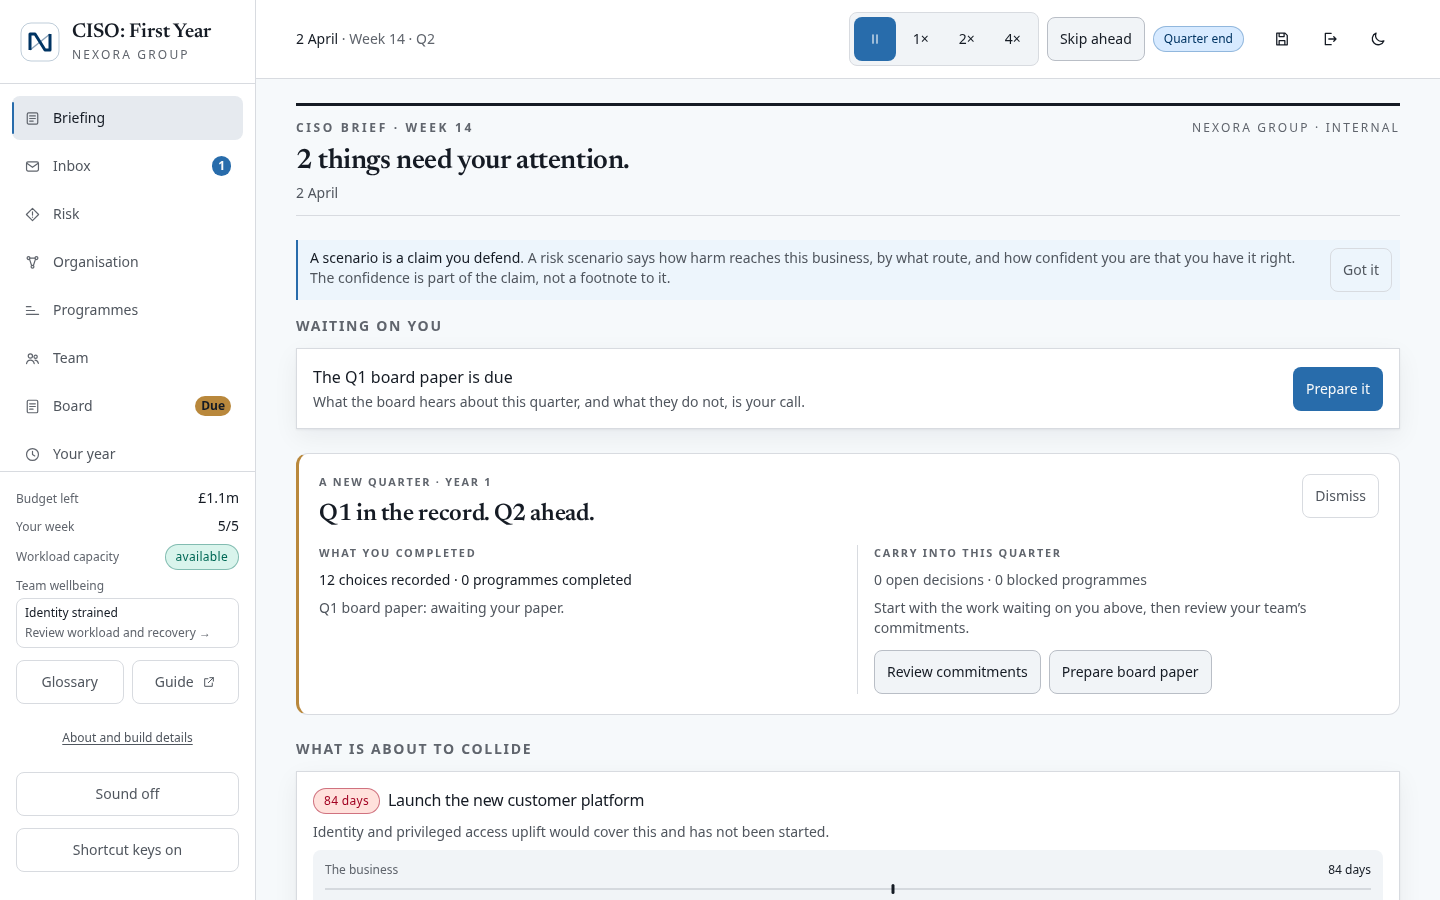
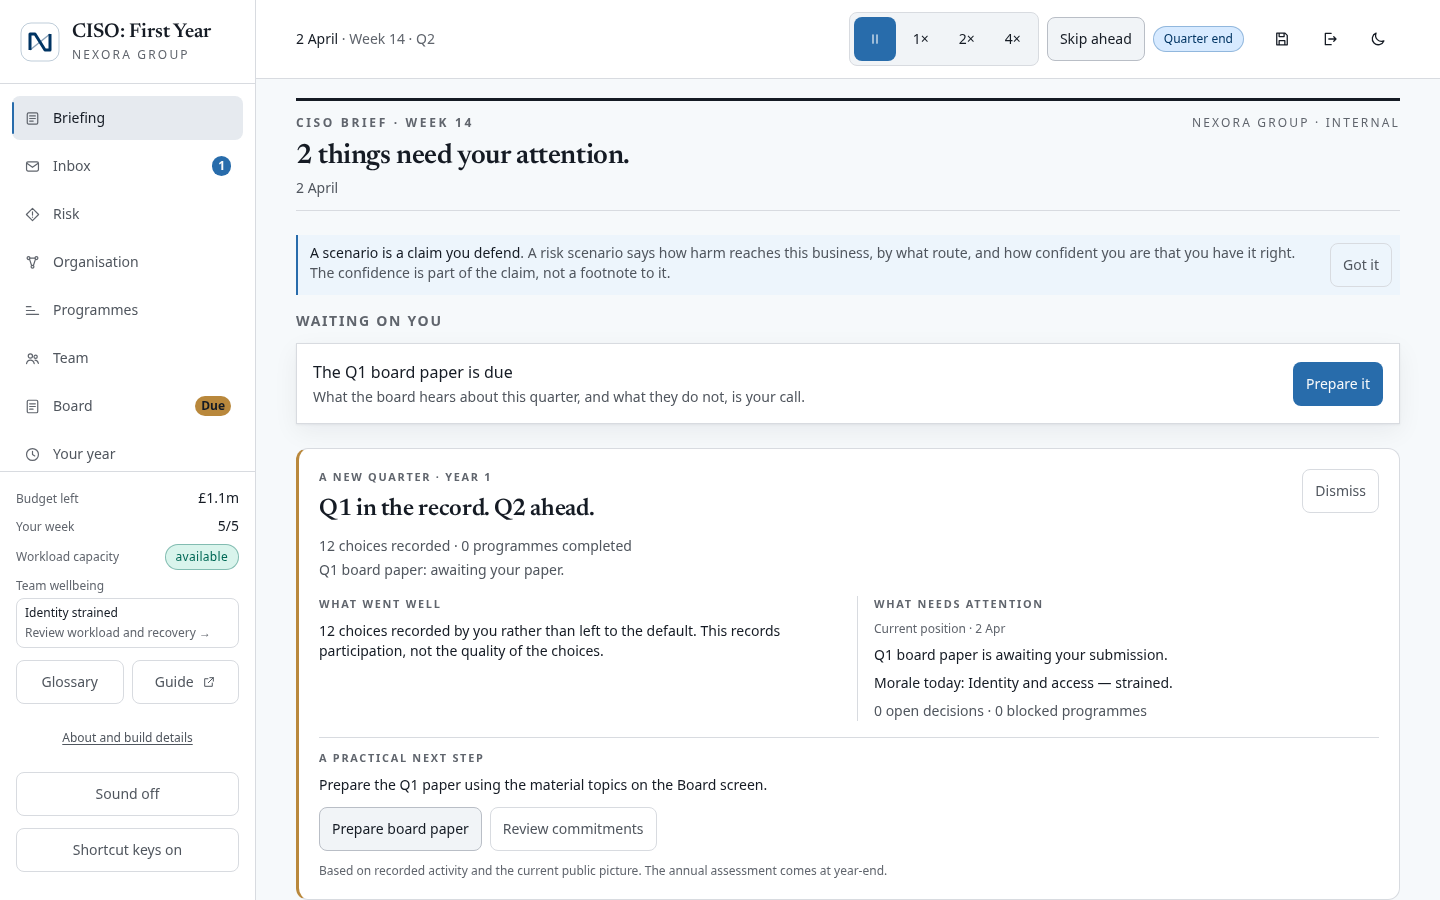
Add evidence-backed quarterly guidance and next steps

diff --git a/src/components/game/CampaignFeedbackView.tsx b/src/components/game/CampaignFeedbackView.tsx
@@ -1,9 +1,8 @@
 import { useEffect, useRef } from 'react'
-import { DAYS_PER_QUARTER } from '@/game/types'
 import { Button, Disclosure } from '@/components/ui/primitives'
 import { useCampaignIndex, useGameStore } from '@/store/game-store'
 import { money, plural, shortDate } from '@/lib/formatting/labels'
-import { openDecisions, programmeViews } from '@/store/selectors'
+import { quarterFeedback } from '@/store/quarter-feedback'
 
 export function CampaignFeedbackView({ kind }: { kind: 'decision' | 'quarter' }) {
   const state = useGameStore((store) => store.state)
@@ -57,17 +56,7 @@ export function CampaignFeedbackView({ kind }: { kind: 'decision' | 'quarter' })
 
   if (!transition) return null
   const quarter = transition.quarter - 1
-  const start = (quarter - 1) * DAYS_PER_QUARTER
-  const end = quarter * DAYS_PER_QUARTER
-  const choices = state.history.decisionsLog.filter((entry) => entry.day >= start && entry.day < end && !state.decisions.decisions[entry.decisionId]?.resolvedByDefault)
-  const completed = programmeViews(state, index).filter((programme) => {
-    const day = state.programmes.programmes[programme.id]?.completedDay
-    return day !== undefined && day >= start && day < end
-  })
-  const board = state.reviews.quarters.find((review) => review.quarter === quarter && review.completed)
-  const pending = state.reviews.pendingQuarter === quarter
-  const outstanding = openDecisions(state, index)
-  const blocked = programmeViews(state, index).filter((programme) => programme.blockers.length > 0 && programme.status !== 'proposed' && programme.status !== 'complete')
+  const { choices, completed, board, pending, outstanding, blocked, strengths, concerns, next } = quarterFeedback(state, index, quarter)
   return <section className="feedback-paper quarter-paper" aria-labelledby="quarter-recap-heading">
     <div className="flex items-start justify-between gap-3">
       <div className="min-w-0"><p className="document-kicker">A new quarter · Year {transition.year}</p>
@@ -75,17 +64,29 @@ export function CampaignFeedbackView({ kind }: { kind: 'decision' | 'quarter' })
       </div>
       <Button variant="quiet" size="sm" className="shrink-0 whitespace-nowrap" aria-label="Dismiss quarter recap" onClick={() => setUi({ quarterTransition: undefined })}>Dismiss</Button>
     </div>
+    <p className="mt-3 text-sm text-ink-muted">{plural(choices.length, 'choice')} recorded · {plural(completed.length, 'programme')} completed</p>
+    <p className="mt-1 text-sm text-ink-muted">Q{quarter} board paper: {board ? 'submitted' : pending ? 'awaiting your paper' : 'no submission recorded'}.</p>
     <div className="mt-4 grid gap-4 sm:grid-cols-2">
-      <div><h3 className="document-kicker">What you completed</h3>
-        <p className="mt-2 text-sm">{plural(choices.length, 'choice')} recorded · {plural(completed.length, 'programme')} completed</p>
-        {completed.length > 0 && <p className="mt-1 text-sm text-ink-muted">{completed.map((programme) => programme.shortName).join(', ')}</p>}
-        <p className="mt-2 text-sm text-ink-muted">Q{quarter} board paper: {board ? 'submitted' : pending ? 'awaiting your paper' : 'no submission recorded'}.</p>
+      <div><h3 className="document-kicker">What went well</h3>
+        {strengths.length > 0 ? <ul className="mt-2 space-y-2 text-sm">{strengths.map((line) => <li key={line}>{line}</li>)}</ul>
+          : <p className="mt-2 text-sm text-ink-muted">No player choices, programme completions or board submission are recorded for this quarter. Other work may be under way.</p>}
       </div>
-      <div className="border-t border-line pt-3 sm:border-t-0 sm:border-l sm:pl-4 sm:pt-0"><h3 className="document-kicker">Carry into this quarter</h3>
+      <div className="border-t border-line pt-3 sm:border-t-0 sm:border-l sm:pl-4 sm:pt-0"><h3 className="document-kicker">What needs attention</h3>
+        <p className="mt-2 text-xs text-ink-faint">Current position · {shortDate(state.currentDay)}</p>
+        {concerns.length > 0 ? <ul className="mt-2 space-y-2 text-sm">{concerns.map((line) => <li key={line}>{line}</li>)}</ul>
+          : <p className="mt-2 text-sm text-ink-muted">No concerns in these records. This does not establish that all risks are controlled.</p>}
         <p className="mt-2 text-sm text-ink-muted">{plural(outstanding.length, 'open decision')} · {plural(blocked.length, 'blocked programme')}</p>
-        <p className="mt-2 text-sm text-ink-muted">Start with the work waiting on you above, then review your team’s commitments.</p>
-        <div className="mt-3 flex flex-wrap gap-2"><Button variant="secondary" size="sm" onClick={() => setScreen('team')}>Review commitments</Button>{pending && <Button variant="secondary" size="sm" onClick={() => setScreen('board')}>Prepare board paper</Button>}</div>
       </div>
+    </div>
+    <div className="mt-4 border-t border-line pt-3">
+      <h3 className="document-kicker">A practical next step</h3>
+      <p className="mt-2 text-sm">{next.text}</p>
+      <div className="mt-3 flex flex-wrap gap-2">
+        <Button variant="secondary" size="sm" onClick={() => { setScreen(next.screen); if (next.decisionId) setUi({ openDecisionId: next.decisionId }) }}>{next.label}</Button>
+        {next.screen !== 'team' && <Button variant="quiet" size="sm" onClick={() => setScreen('team')}>Review commitments</Button>}
+        {pending && next.screen !== 'board' && <Button variant="quiet" size="sm" onClick={() => setScreen('board')}>Prepare board paper</Button>}
+      </div>
+      <p className="mt-3 text-xs text-ink-faint">Based on recorded activity and the current public picture. The annual assessment comes at year-end.</p>
     </div>
   </section>
 }

diff --git a/tests/ui/campaign-feedback.test.tsx b/tests/ui/campaign-feedback.test.tsx
@@ -3,6 +3,7 @@ import { beforeEach, describe, expect, it } from 'vitest'
 import { fireEvent, render, screen } from '@testing-library/react'
 import { useGameStore } from '@/store/game-store'
 import { CampaignFeedbackView } from '@/components/game/CampaignFeedbackView'
+import { quarterFeedback } from '@/store/quarter-feedback'
 import { CampaignFeedback } from '@/components/game/CampaignFeedback'
 
 beforeEach(async () => { await useGameStore.getState().startNewGame('ui-feedback', 'ciso') })
@@ -84,5 +85,84 @@ describe('factual campaign feedback', () => {
     useGameStore.getState().setUi({ quarterTransition: { gameId: 'other', year: 1, quarter: 2 } })
     const { container } = render(<CampaignFeedback kind="quarter" />)
     expect(container).toBeEmptyDOMElement()
+  })
+})
+
+
+describe('quarterly guidance', () => {
+  it('names all struggling functions separately from available capacity and routes to the team', () => {
+    const state = structuredClone(useGameStore.getState().state!)
+    const index = useGameStore.getState().index!
+    state.currentDay = 92
+    state.decisions.openIds = []
+    state.reviews.pendingQuarter = undefined
+    state.reviews.quarters = [{ quarter: 1, day: 92, topicsChosen: [], recommendationIds: [], uncertaintyCommunicated: true, boardReaction: 'The board follows the argument.', completed: true }]
+    for (const fn of Object.values(state.team.functions)) { fn.morale = 0.8; fn.committed = 0 }
+    state.team.functions.soc!.morale = 0.2
+    state.team.functions.engineering!.morale = 0.4
+    const before = structuredClone(state)
+    const feedback = quarterFeedback(state, index, 1)
+    expect(feedback.concerns.join(' ')).toContain('SOC and detection — burning out')
+    expect(feedback.concerns.join(' ')).toContain('Security engineering — strained')
+    expect(feedback.concerns.join(' ')).not.toContain('Workload today:')
+    expect(feedback.next.screen).toBe('team')
+    expect(state).toEqual(before)
+    useGameStore.setState((store) => ({ state, ui: { ...store.ui, quarterTransition: { gameId: state.gameId, year: 1, quarter: 2 } } }))
+    render(<CampaignFeedbackView kind="quarter" />)
+    fireEvent.click(screen.getByRole('button', { name: 'Review commitments' }))
+    expect(useGameStore.getState().ui.screen).toBe('team')
+  })
+
+  it('counts completion dates and lapse dates within the quarter, including in year two', () => {
+    const state = structuredClone(useGameStore.getState().state!)
+    const index = useGameStore.getState().index!
+    state.year = 2; state.currentDay = 92
+    const programme = Object.values(state.programmes.programmes)[0]!
+    Object.assign(programme, { status: 'complete', startedDay: -50, completedDay: -1 })
+    const decision = Object.values(state.decisions.decisions)[0]!
+    Object.assign(decision, { resolvedByDefault: true, resolvedDay: 90 })
+    expect(quarterFeedback(state, index, 1).completed).toHaveLength(0)
+    expect(quarterFeedback(state, index, 1).concerns.join(' ')).toContain('1 decision lapsed')
+    programme.completedDay = 0
+    expect(quarterFeedback(state, index, 1).completed).toHaveLength(1)
+    programme.completedDay = 91; decision.resolvedDay = 91
+    expect(quarterFeedback(state, index, 1).completed).toHaveLength(0)
+    expect(quarterFeedback(state, index, 1).concerns.join(' ')).not.toContain('decision lapsed')
+  })
+
+  it('keeps a pending board paper actionable and includes unresolved blockers on paused work', () => {
+    const state = structuredClone(useGameStore.getState().state!)
+    const index = useGameStore.getState().index!
+    state.decisions.openIds = []
+    state.reviews.pendingQuarter = 1
+    expect(quarterFeedback(state, index, 1).next.screen).toBe('board')
+    state.reviews.pendingQuarter = undefined
+    for (const fn of Object.values(state.team.functions)) { fn.morale = 0.8; fn.committed = 0 }
+    const def = index.content.programmes.find((programme) => programme.blockers.length > 0)!
+    const programme = state.programmes.programmes[def.id]!
+    programme.status = 'paused'
+    programme.blockers = [{ id: def.blockers[0]!.id, startedDay: 50, resolved: false }]
+    const feedback = quarterFeedback(state, index, 1)
+    expect(feedback.concerns.join(' ')).toContain(def.blockers[0]!.name)
+    expect(feedback.next.screen).toBe('programmes')
+    programme.blockers[0]!.resolved = true
+    expect(quarterFeedback(state, index, 1).blocked).toHaveLength(0)
+  })
+
+  it('does not infer feedback from hidden risk truth and opens the recorded next decision', () => {
+    const state = structuredClone(useGameStore.getState().state!)
+    const index = useGameStore.getState().index!
+    const before = quarterFeedback(state, index, 1)
+    for (const node of Object.values(state.organisation.nodes)) node.exposure = 1 - node.exposure
+    state.risks.initialMateriality = Object.fromEntries(index.content.riskScenarios.map((risk) => [risk.id, 1]))
+    const after = quarterFeedback(state, index, 1)
+    expect(after.strengths).toEqual(before.strengths)
+    expect(after.concerns).toEqual(before.concerns)
+    expect(after.next).toEqual(before.next)
+    expect(after.next.decisionId).toBeDefined()
+    useGameStore.setState((store) => ({ state, ui: { ...store.ui, quarterTransition: { gameId: state.gameId, year: 1, quarter: 2 } } }))
+    render(<CampaignFeedbackView kind="quarter" />)
+    fireEvent.click(screen.getByRole('button', { name: 'Review next decision' }))
+    expect(useGameStore.getState().ui.openDecisionId).toBe(after.next.decisionId)
   })
 })

diff --git a/src/store/quarter-feedback.ts b/src/store/quarter-feedback.ts
@@ -1,0 +1,46 @@
+import { DAYS_PER_QUARTER, type ContentIndex, type GameState } from '@/game/types'
+import { plural } from '@/lib/formatting/labels'
+import { openDecisions, programmeViews, teamView } from './selectors'
+import type { Screen } from './game-store'
+
+/** Recorded quarter activity and today's public concerns; never an interim annual grade. */
+export function quarterFeedback(state: GameState, index: ContentIndex, quarter: number) {
+  const start = (quarter - 1) * DAYS_PER_QUARTER
+  const end = quarter * DAYS_PER_QUARTER
+  const inQuarter = (day: number) => day >= start && day < end
+  const choices = state.history.decisionsLog.filter((entry) => inQuarter(entry.day) && !state.decisions.decisions[entry.decisionId]?.resolvedByDefault)
+  const lapsed = Object.values(state.decisions.decisions).filter((decision) => decision.resolvedByDefault && decision.resolvedDay !== undefined && inQuarter(decision.resolvedDay))
+  const programmes = programmeViews(state, index)
+  const completed = programmes.filter((programme) => {
+    const day = state.programmes.programmes[programme.id]?.completedDay
+    return day !== undefined && inQuarter(day)
+  })
+  const board = state.reviews.quarters.find((review) => review.quarter === quarter && review.completed)
+  const pending = state.reviews.pendingQuarter === quarter
+  const outstanding = openDecisions(state, index)
+  const blocked = programmes.filter((programme) => programme.blockers.length > 0 && programme.status !== 'proposed' && programme.status !== 'complete')
+  const functions = teamView(state, index).functions
+  const struggling = functions.filter((fn) => fn.moraleLabel === 'Strained' || fn.moraleLabel === 'Burning out')
+  const loaded = functions.filter((fn) => ['stretched', 'overloaded', 'breaking'].includes(fn.band))
+  const strengths: string[] = []
+  if (completed.length) strengths.push(`Delivery completed: ${completed.map((programme) => programme.shortName).join(', ')}.`)
+  if (choices.length) strengths.push(`${plural(choices.length, 'choice')} recorded by you rather than left to the default. This records participation, not the quality of the choices.`)
+  if (board) strengths.push(`Q${quarter} board paper submitted. ${board.boardReaction}`.trim())
+  const concerns: string[] = []
+  if (lapsed.length) concerns.push(`In Q${quarter}, ${plural(lapsed.length, 'decision')} lapsed: ${lapsed.map((decision) => index.decision.get(decision.defId)?.title ?? 'Recorded decision').join('; ')}.`)
+  if (pending) concerns.push(`Q${quarter} board paper is awaiting your submission.`)
+  else if (!board) concerns.push(`No Q${quarter} board-paper submission is recorded.`)
+  if (struggling.length) concerns.push(`Morale today: ${struggling.map((fn) => `${fn.label} — ${fn.moraleLabel.toLowerCase()}`).join('; ')}.`)
+  if (loaded.length) concerns.push(`Workload today: ${loaded.map((fn) => `${fn.label} — ${fn.band}`).join('; ')}.`)
+  if (blocked.length) concerns.push(`Blocked today: ${blocked.map((programme) => `${programme.shortName} (${programme.blockers.map((blocker) => blocker.name).join(', ')})`).join('; ')}.`)
+  const next: { text: string; label: string; screen: Screen; decisionId?: string } = outstanding[0]
+    ? { text: `Review “${outstanding[0].title}”, the first decision in your deadline-ordered queue.`, label: 'Review next decision', screen: 'home', decisionId: outstanding[0].id }
+    : pending
+      ? { text: `Prepare the Q${quarter} paper using the material topics on the Board screen.`, label: 'Prepare board paper', screen: 'board' }
+      : struggling.length || loaded.length
+        ? { text: 'Review the named functions and their commitments before adding work. Pausing programmes releases people; morale recovery depends on workload and vacancies.', label: 'Review commitments', screen: 'team' }
+        : blocked.length
+          ? { text: 'Review the named blockers and the available interventions before committing more resources.', label: 'Review programme blockers', screen: 'programmes' }
+          : { text: 'Review capacity and existing commitments before choosing the next piece of work.', label: 'Review commitments', screen: 'team' }
+  return { choices, completed, board, pending, outstanding, blocked, strengths, concerns, next }
+}

diff --git a/tests/e2e/campaign-feedback.spec.ts b/tests/e2e/campaign-feedback.spec.ts
@@ -36,6 +36,10 @@ test('a played quarter boundary adds a recap below the work waiting on you', asy
   const recap = page.getByRole('region', { name: 'Q1 in the record. Q2 ahead.' })
   await expect(recap).toBeVisible()
   await expect(recap).toContainText('Q1 board paper: awaiting your paper.')
+  for (const name of ['What went well', 'What needs attention', 'A practical next step']) {
+    await expect(recap.getByRole('heading', { name })).toBeVisible()
+  }
+  await expect(recap).toContainText('The annual assessment comes at year-end.')
   const actions = page.locator('#decisions')
   expect(await actions.evaluate((element) => Boolean(element.compareDocumentPosition(document.querySelector('.quarter-paper')!) & Node.DOCUMENT_POSITION_FOLLOWING))).toBe(true)
   await expectNoHorizontalScroll(page)

diff --git a/AGENTS.md b/AGENTS.md
@@ -121,6 +121,10 @@ changes.
 - Quarter recaps appear only after played boundaries, below the Briefing action
   area. Exclude defaulted decisions from player choices, use programme completion
   dates, preserve pending board-paper status, and never invent a fifth quarter.
+- Quarterly guidance uses recorded choices/completions and public views only;
+  never call the annual grader mid-year. Separate dated quarter lapses from
+  today's labelled workload, morale and blocker concerns. Name all struggling
+  functions and keep the linked next step available without hiding urgent work.
 - Keep optional feedback deferred and nonblocking. Expand programme milestones
   and leadership notes without hiding costs, staffing, morale, blockers or
   actions; disclosures need keyboard controls and associated panels.

diff --git a/docs/PLAYER_GUIDE.md b/docs/PLAYER_GUIDE.md
@@ -591,7 +591,12 @@ reply. Later effects still arrive through the Inbox.
 
 When you play into a new quarter, the Briefing places a recap below **Waiting on
 you**. It summarises recorded choices, programmes completed and the prior board
-paper, then points to current commitments. Loading a save does not replay it.
+paper. **What went well** describes those recorded actions; it does not promise
+that every choice was good. **What needs attention** names decisions that lapsed
+in that quarter and dates today's workload, morale and programme blockers.
+**A practical next step** opens the next decision or the relevant workspace.
+The annual assessment still comes at year-end. Loading a save does not replay
+the recap.
 
 ![A quarter recap on the Briefing](images/08b-quarter-recap.png)
 

diff --git a/README.md b/README.md
@@ -133,6 +133,12 @@ while retaining unfinished carry-over work. Recovery evidence and Exceptional
 eligibility recognise test-tenancy restores in both the first and later years.
 [Assessment rules and calibration](docs/ASSESSMENT.md) document the exact method.
 
+Quarter recaps now explain what went well from recorded choices, programme
+completions and board submissions, then name lapsed decisions and current public
+workload, morale and blocker concerns. A practical next step opens the relevant
+decision or workspace. Current concerns are dated, no hidden risk truth or interim
+annual grade is exposed, and loading a save does not replay the recap.
+
 ## Running it
 
 ```bash

diff --git a/CHANGELOG.md b/CHANGELOG.md
@@ -10,6 +10,8 @@ The game as it stands after the roadmap's engineering phases
 (`docs/ROADMAP.md`, Phases 0–7). Version 0.1.0 until the owner tags a release.
 
 ### Playing
+- Quarter recaps explain recorded strengths, missed decisions and current public
+  team/programme concerns, with a practical next step linked to the work.
 - Later-year reviews now credit the second-year test-tenancy restore and exclude
   programmes finished in earlier years from prioritisation commitments.
 - Overall annual ratings now have minimum standards, with explanations when a
